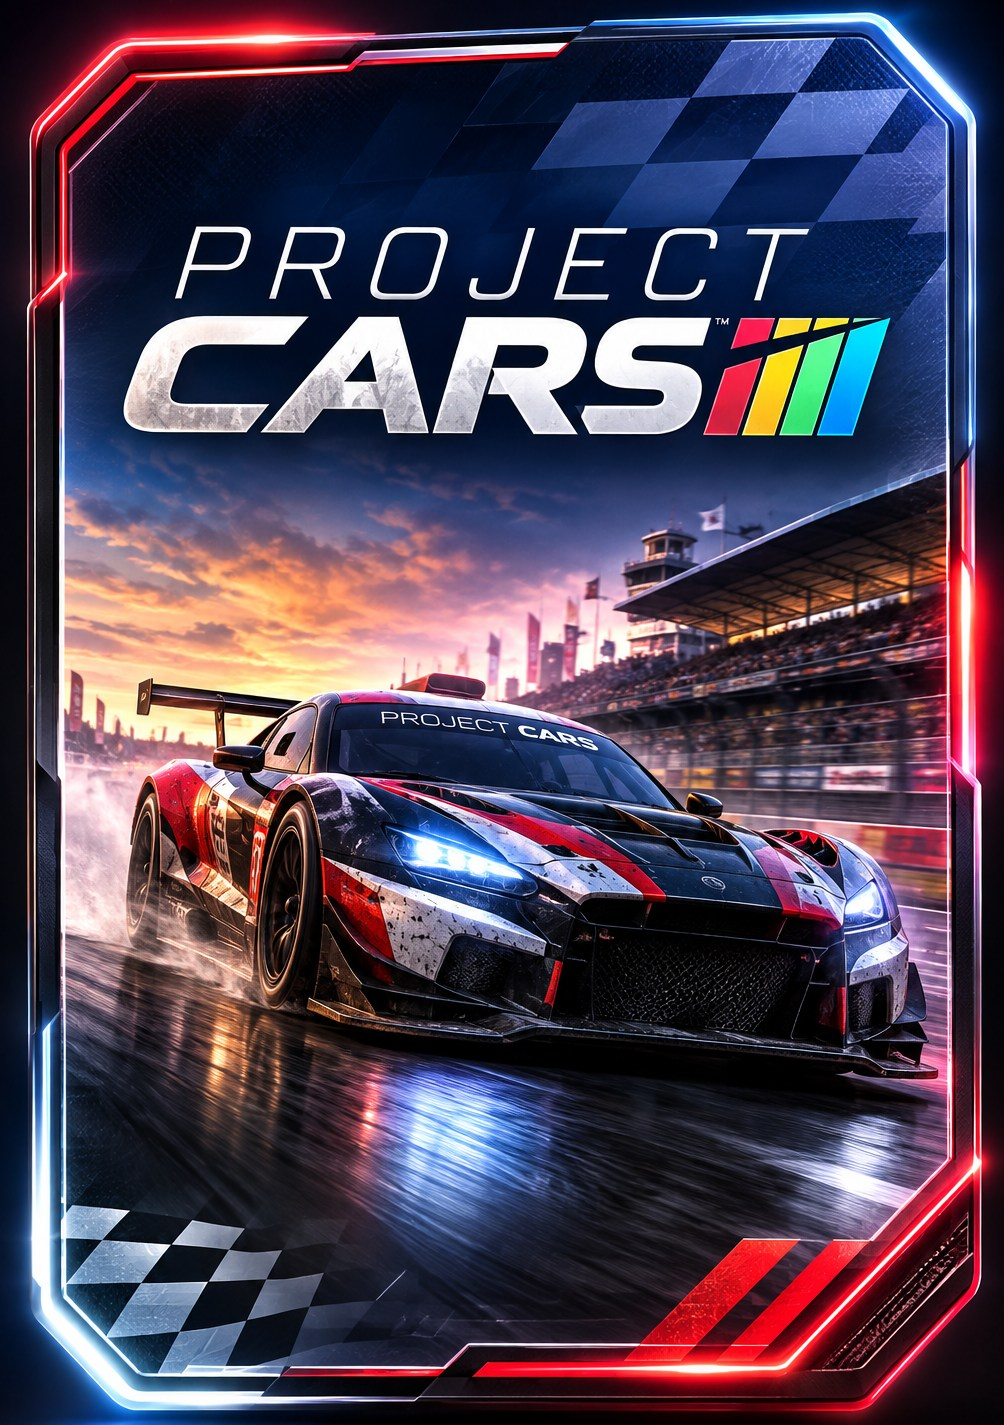
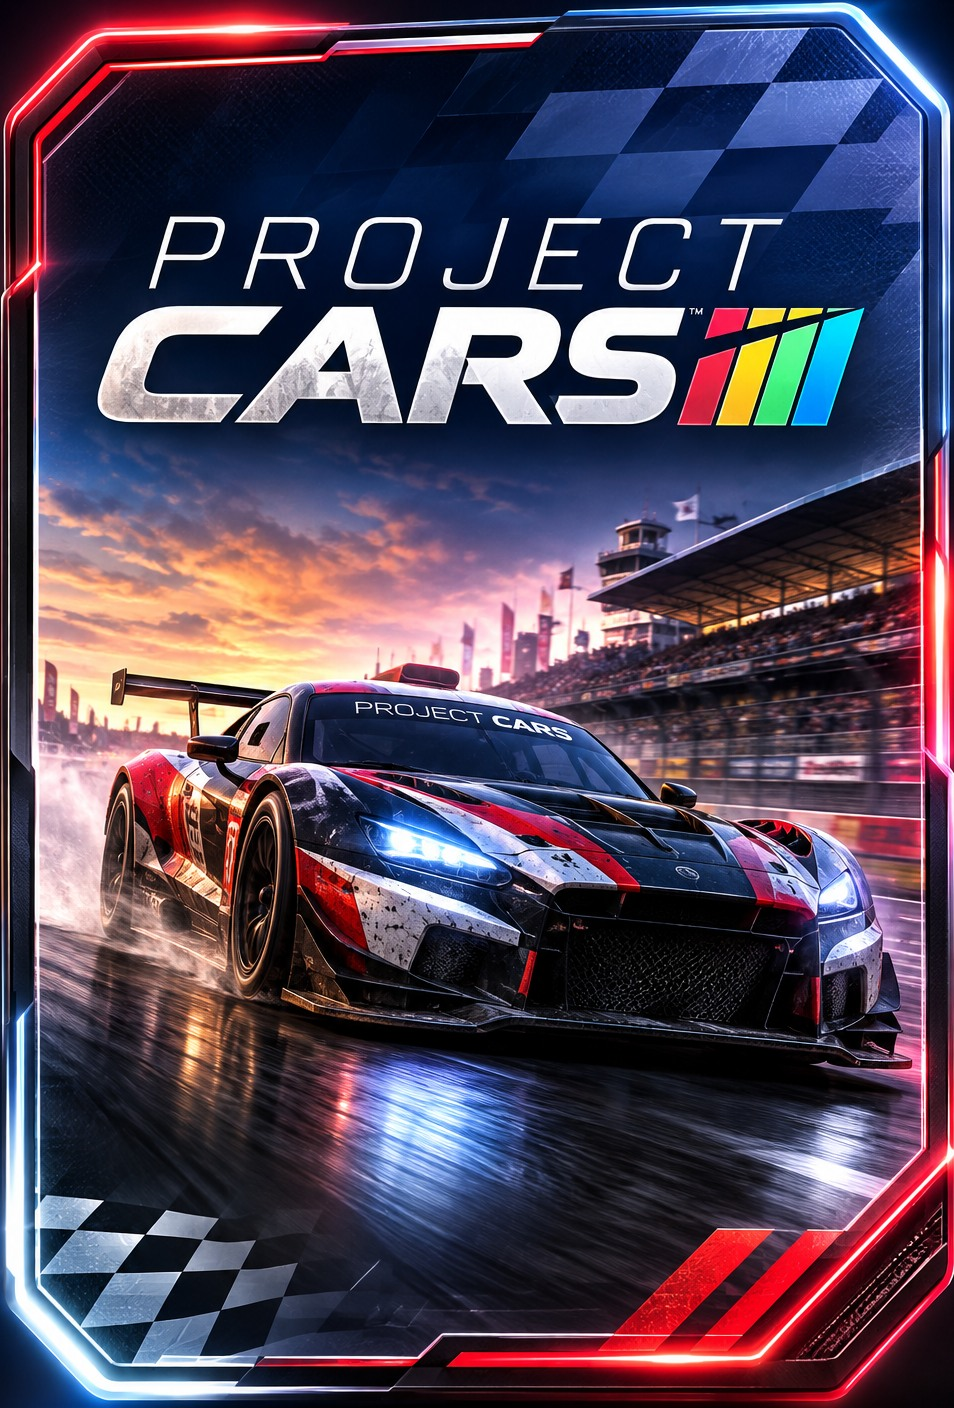
Tighten cover crop to match card frame

diff --git a/styles.css b/styles.css
@@ -4,9 +4,9 @@ body:before{content:"";position:fixed;inset:0;opacity:.14;pointer-events:none;ba
 .ambient{position:fixed;width:42vw;height:42vw;border-radius:50%;filter:blur(100px);opacity:.12;pointer-events:none}.ambient-a{background:#dd1b78;left:-20vw;top:15vh}.ambient-b{background:#2845ff;right:-20vw;bottom:-20vh}
 .cabinet{position:relative;z-index:1;width:100%;height:100%;min-height:570px;padding:clamp(22px,3.2vw,52px) clamp(24px,6.4vw,112px) 24px;display:flex;flex-direction:column}.topbar{height:56px;display:flex;align-items:center;justify-content:space-between}.brand{display:flex;align-items:center;gap:11px;color:var(--ink);text-decoration:none;font-weight:900;font-size:17px;letter-spacing:.12em}.brand small{display:block;color:#858a9d;font-size:8px;letter-spacing:.28em;margin-top:3px}.brand-mark{width:37px;height:37px;display:grid;place-items:center;border:1px solid var(--accent);color:var(--accent);font:900 24px 'Barlow Condensed',sans-serif;transform:skew(-8deg);box-shadow:0 0 20px #eaff0030}.status{font-size:9px;letter-spacing:.18em;color:#a4a8b7}.status i{display:inline-block;width:6px;height:6px;background:var(--accent);border-radius:50%;margin-right:8px;box-shadow:0 0 9px var(--accent)}.top-meta{display:flex;align-items:center;gap:27px;font-size:9px;letter-spacing:.18em;color:#8e93a5}.top-meta b{font:700 14px 'Barlow Condensed',sans-serif;color:white}.top-meta em{color:var(--accent);font-style:normal;margin:0 4px}
 .showcase{flex:1;display:flex;flex-direction:column;justify-content:center;min-height:0}.eyebrow{display:flex;align-items:center;justify-content:center;gap:13px;font-size:9px;letter-spacing:.32em;color:#b1b4c0;margin:8px 0 21px}.eyebrow-line{width:31px;height:1px;background:var(--accent);box-shadow:0 0 10px #eaff0080}
-.track{height:min(49vh,440px);min-height:300px;position:relative;perspective:1100px;display:flex;align-items:center;justify-content:center;overflow:visible}.game-card{position:absolute;left:50%;top:50%;width:clamp(210px,34.5vh,310px);height:100%;max-height:440px;overflow:hidden;border-radius:7px;background:#171a27;border:1px solid #ffffff26;cursor:pointer;transform-style:preserve-3d;transition:transform .62s cubic-bezier(.2,.78,.2,1),opacity .55s ease,filter .55s ease,box-shadow .55s ease;will-change:transform,opacity;user-select:none}.game-card:before{content:"";position:absolute;z-index:2;inset:0;border:1px solid color-mix(in srgb,var(--tone) 58%,transparent);border-radius:7px;pointer-events:none}.game-card.active{box-shadow:0 0 0 1px var(--tone),0 18px 70px #0009,0 0 42px color-mix(in srgb,var(--tone) 27%,transparent)}.game-card:not(.active){filter:saturate(.72) brightness(.72)}.art{position:absolute;inset:0;background:radial-gradient(ellipse at 56% 60%,color-mix(in srgb,var(--tone) 44%,transparent),transparent 47%),linear-gradient(150deg,var(--art-top),var(--art-bottom));overflow:hidden}.art:before{content:"";position:absolute;inset:0;background:linear-gradient(180deg,#0506100c 30%,#070811dc 100%),repeating-linear-gradient(165deg,transparent 0 42px,#ffffff08 43px,#ffffff08 44px,transparent 45px 78px)}.art:after{content:"";position:absolute;width:140%;height:40%;left:-20%;bottom:9%;transform:rotate(-13deg);border-top:1px solid color-mix(in srgb,var(--tone) 65%,transparent);border-bottom:1px solid #ffffff18;background:linear-gradient(180deg,#07091100,#080a15a8);box-shadow:0 -13px 50px color-mix(in srgb,var(--tone) 17%,transparent)}.art svg{position:absolute;width:120%;height:61%;left:-10%;top:26%;z-index:1;filter:drop-shadow(0 22px 17px #0009)}.cover-image{position:absolute;inset:0;width:100%;height:100%;object-fit:contain;object-position:center;z-index:0}.art.has-image:before{display:none}.art.has-image:after{display:none}.game-card.has-cover .card-index,.game-card.has-cover .card-corner,.game-card.has-cover .card-label{display:none}.card-label{position:absolute;z-index:3;left:23px;right:20px;bottom:20px}.card-label span{font-size:8px;letter-spacing:.2em;color:var(--tone);font-weight:800}.card-label strong{display:block;margin-top:6px;font:800 clamp(22px,2.4vw,34px)/.93 'Barlow Condensed',sans-serif;letter-spacing:.015em;text-transform:uppercase}.card-label small{display:block;margin-top:10px;color:#c5c7d0;font-size:8px;letter-spacing:.19em}.card-index{position:absolute;z-index:3;right:20px;top:17px;font:700 12px 'Barlow Condensed',sans-serif;letter-spacing:.15em;color:#fff9}.card-corner{position:absolute;z-index:3;top:17px;left:18px;width:16px;height:16px;border-top:1px solid var(--tone);border-left:1px solid var(--tone)}
+.track{height:min(49vh,440px);min-height:300px;position:relative;perspective:1100px;display:flex;align-items:center;justify-content:center;overflow:visible}.game-card{position:absolute;left:50%;top:50%;width:clamp(200px,33.2vh,298px);height:100%;max-height:440px;overflow:hidden;border-radius:7px;background:#171a27;border:1px solid #ffffff26;cursor:pointer;transform-style:preserve-3d;transition:transform .62s cubic-bezier(.2,.78,.2,1),opacity .55s ease,filter .55s ease,box-shadow .55s ease;will-change:transform,opacity;user-select:none}.game-card:before{content:"";position:absolute;z-index:2;inset:0;border:1px solid color-mix(in srgb,var(--tone) 58%,transparent);border-radius:7px;pointer-events:none}.game-card.active{box-shadow:0 0 0 1px var(--tone),0 18px 70px #0009,0 0 42px color-mix(in srgb,var(--tone) 27%,transparent)}.game-card:not(.active){filter:saturate(.72) brightness(.72)}.art{position:absolute;inset:0;background:radial-gradient(ellipse at 56% 60%,color-mix(in srgb,var(--tone) 44%,transparent),transparent 47%),linear-gradient(150deg,var(--art-top),var(--art-bottom));overflow:hidden}.art:before{content:"";position:absolute;inset:0;background:linear-gradient(180deg,#0506100c 30%,#070811dc 100%),repeating-linear-gradient(165deg,transparent 0 42px,#ffffff08 43px,#ffffff08 44px,transparent 45px 78px)}.art:after{content:"";position:absolute;width:140%;height:40%;left:-20%;bottom:9%;transform:rotate(-13deg);border-top:1px solid color-mix(in srgb,var(--tone) 65%,transparent);border-bottom:1px solid #ffffff18;background:linear-gradient(180deg,#07091100,#080a15a8);box-shadow:0 -13px 50px color-mix(in srgb,var(--tone) 17%,transparent)}.art svg{position:absolute;width:120%;height:61%;left:-10%;top:26%;z-index:1;filter:drop-shadow(0 22px 17px #0009)}.cover-image{position:absolute;inset:0;width:100%;height:100%;object-fit:contain;object-position:center;z-index:0}.art.has-image:before{display:none}.art.has-image:after{display:none}.game-card.has-cover .card-index,.game-card.has-cover .card-corner,.game-card.has-cover .card-label{display:none}.card-label{position:absolute;z-index:3;left:23px;right:20px;bottom:20px}.card-label span{font-size:8px;letter-spacing:.2em;color:var(--tone);font-weight:800}.card-label strong{display:block;margin-top:6px;font:800 clamp(22px,2.4vw,34px)/.93 'Barlow Condensed',sans-serif;letter-spacing:.015em;text-transform:uppercase}.card-label small{display:block;margin-top:10px;color:#c5c7d0;font-size:8px;letter-spacing:.19em}.card-index{position:absolute;z-index:3;right:20px;top:17px;font:700 12px 'Barlow Condensed',sans-serif;letter-spacing:.15em;color:#fff9}.card-corner{position:absolute;z-index:3;top:17px;left:18px;width:16px;height:16px;border-top:1px solid var(--tone);border-left:1px solid var(--tone)}
 .selection{display:flex;align-items:center;justify-content:space-between;width:min(700px,75vw);margin:24px auto 0}.selection-copy{text-align:center;flex:1;padding-left:125px}.game-kicker{color:var(--accent);font-size:8px;font-weight:700;letter-spacing:.28em}.selection h1{font:800 clamp(27px,3.5vw,46px)/1 'Barlow Condensed',sans-serif;text-transform:uppercase;letter-spacing:.025em;margin:6px 0 5px}.selection p{font-size:10px;letter-spacing:.04em;color:#a6a9b5;margin:0}.play-button{width:144px;height:48px;flex:none;border:0;color:#080a13;background:var(--accent);display:flex;align-items:center;justify-content:space-between;padding:0 18px;font:900 12px Inter,sans-serif;letter-spacing:.2em;cursor:pointer;clip-path:polygon(0 0,89% 0,100% 25%,100% 100%,11% 100%,0 75%);transition:transform .18s,filter .18s,box-shadow .18s}.play-button:hover{transform:scale(1.05);filter:brightness(1.12);box-shadow:0 0 25px #eaff0070}.play-button b{font-size:17px}
 .controls{display:flex;align-items:center;justify-content:center;gap:17px;margin:17px auto 0;position:relative}.arrow{width:32px;height:32px;border:1px solid #ffffff30;background:#ffffff08;color:#fff;font-size:18px;cursor:pointer;transition:.2s}.arrow:hover{border-color:var(--accent);color:var(--accent)}.dots{display:flex;align-items:center;gap:7px}.dot{width:17px;height:3px;background:#555969;border:0;padding:0;cursor:pointer;transition:.3s}.dot.active{width:35px;background:var(--accent);box-shadow:0 0 12px #eaff0080}.keys-hint{position:absolute;left:calc(100% + 44px);white-space:nowrap;font-size:8px;color:#777d8d;letter-spacing:.13em}.keys-hint kbd{font:700 9px Inter,sans-serif;color:#c9cbd2;border:1px solid #555a68;padding:3px 5px;margin-left:4px}.cabinet footer{height:23px;display:flex;justify-content:space-between;align-items:end;color:#777c8c;font-size:8px;letter-spacing:.18em}.cabinet footer b{color:var(--accent);font-size:7px;margin:0 5px}.toast{position:fixed;z-index:9;left:50%;bottom:45px;transform:translate(-50%,20px);opacity:0;padding:13px 18px;background:var(--accent);color:#090b12;font-size:9px;font-weight:800;letter-spacing:.15em;transition:.3s;pointer-events:none}.toast.show{opacity:1;transform:translate(-50%,0)}
-@media(max-width:760px){.cabinet{padding:18px 20px 17px}.status,.top-meta>span{display:none}.track{height:44vh;min-height:270px}.game-card{width:clamp(200px,31vh,280px)}.selection{width:100%;gap:12px;margin-top:20px}.selection-copy{padding-left:0;text-align:left}.selection h1{font-size:32px}.selection p{max-width:42vw;line-height:1.5}.play-button{width:116px;height:44px;padding:0 13px}.keys-hint{display:none}.cabinet footer{font-size:7px}.eyebrow{font-size:8px;margin-bottom:13px}}
+@media(max-width:760px){.cabinet{padding:18px 20px 17px}.status,.top-meta>span{display:none}.track{height:44vh;min-height:270px}.game-card{width:clamp(180px,29.8vh,280px)}.selection{width:100%;gap:12px;margin-top:20px}.selection-copy{padding-left:0;text-align:left}.selection h1{font-size:32px}.selection p{max-width:42vw;line-height:1.5}.play-button{width:116px;height:44px;padding:0 13px}.keys-hint{display:none}.cabinet footer{font-size:7px}.eyebrow{font-size:8px;margin-bottom:13px}}
 @media(max-height:680px){.cabinet{padding-top:14px;padding-bottom:13px}.topbar{height:38px}.track{height:42vh;min-height:240px}.selection{margin-top:13px}.controls{margin-top:10px}.eyebrow{margin:4px 0 10px}.cabinet footer{height:17px}}
 @media(prefers-reduced-motion:reduce){*,*:before,*:after{transition-duration:.01ms!important;animation-duration:.01ms!important;scroll-behavior:auto!important}}

diff --git a/index.html b/index.html
@@ -5,7 +5,7 @@
   <meta name="viewport" content="width=device-width, initial-scale=1" />
   <meta name="theme-color" content="#080a13" />
   <title>VELOCITY — выбор заезда</title>
-  <link rel="stylesheet" href="styles.css?v=portrait-1" />
+  <link rel="stylesheet" href="styles.css?v=portrait-2" />
 </head>
 <body>
   <div class="ambient ambient-a"></div><div class="ambient ambient-b"></div>
